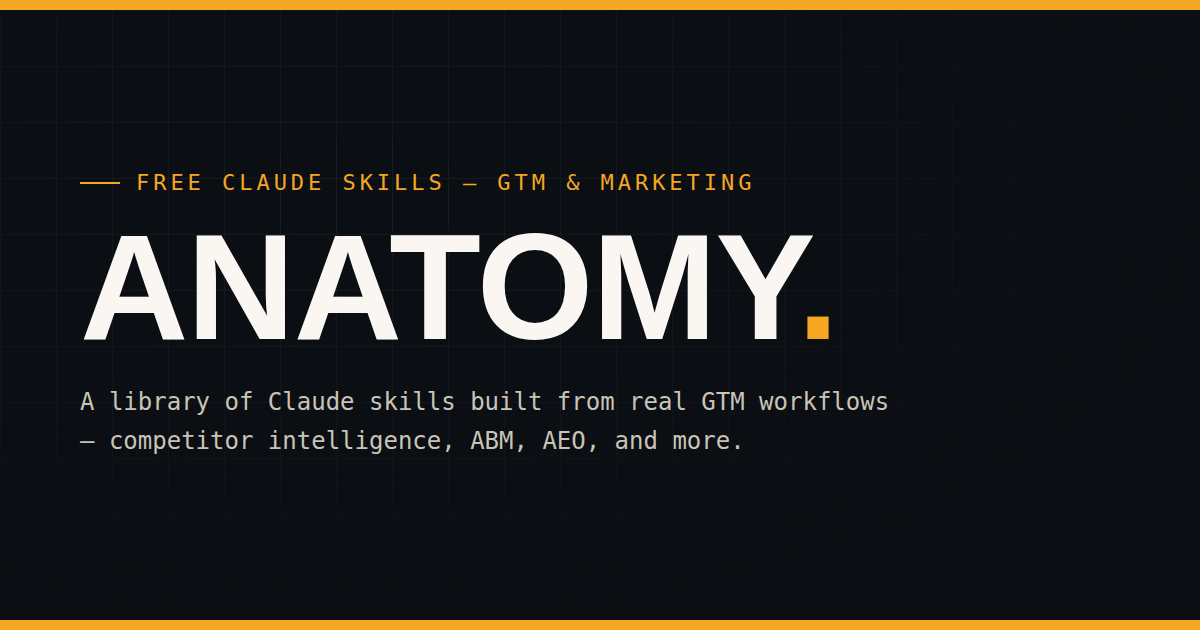
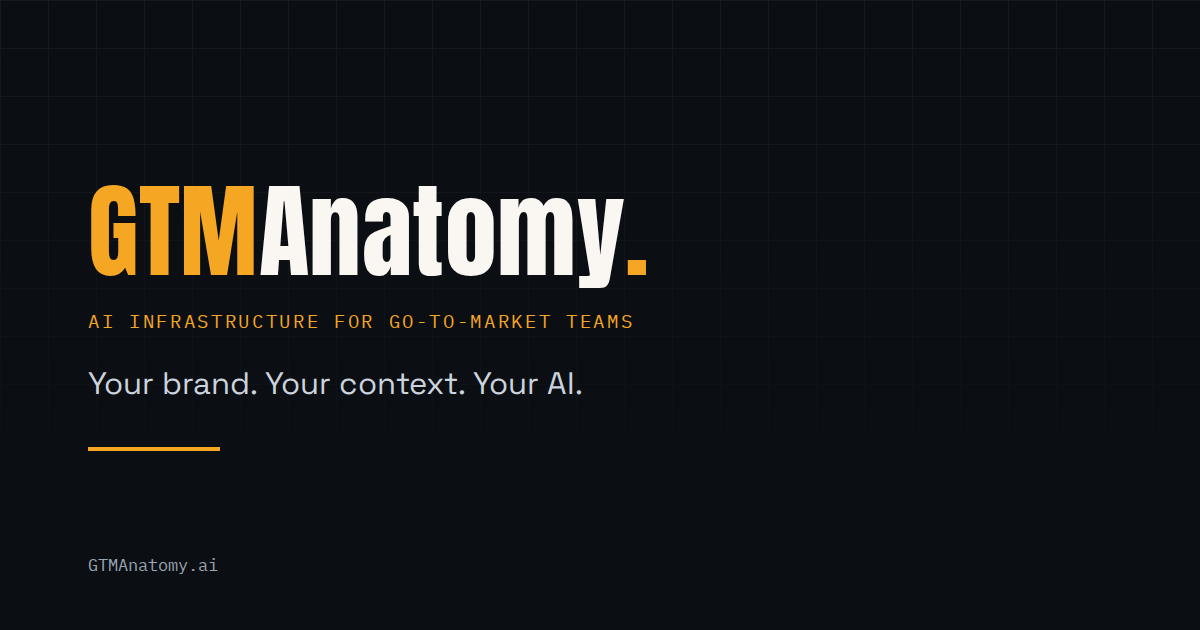
Adopt the GTMAnatomy. wordmark in the nav, footer and share image
The supplied logo is the wordmark set in Anton, which the site already loads,
so it is rebuilt as live text rather than dropped in as a bitmap: crisp at any
size, and it reverses cleanly on the graphite nav where the black logo file
cannot go. "GTM" and the trailing full stop in amber, "Anatomy" in paper.

The lockup is the only place the name is written closed up. In prose the company
stays "GTM Anatomy", two words, per the brand guide.

Also regenerates assets/og-image.png from the same lockup, replacing the old
"Anatomy, free Claude skills" card that had been wrong since the restructure.
Note for whoever regenerates it next: the fonts must be embedded as base64 data
URIs, because a Google Fonts link in headless Chromium falls back silently and
the wordmark renders in the wrong face.

Claude-Session: https://claude.ai/code/session_01VtznqqCexywErVyi7b5Jgd

diff --git a/assets/styles.css b/assets/styles.css
@@ -212,9 +212,16 @@ footer a{ color:var(--amber-deep); text-decoration:underline; }
 /* nav overrides */
 .global-nav-inner{ flex-wrap:wrap; }
 .gn-links{ overflow:visible; flex-wrap:wrap; align-items:center; }
-.gn-brand{ font-family:var(--disp); font-size:17px; text-transform:uppercase; letter-spacing:.02em; color:var(--paper);
-  text-decoration:none; margin-right:6px; white-space:nowrap; transition:color .15s ease; }
-.gn-brand:hover{ color:var(--amber); }
+/* wordmark lockup: GTMAnatomy. — amber GTM, ink Anatomy, amber full stop.
+   Live Anton text rather than an image, so it stays crisp and reverses cleanly
+   on the graphite ground where the black logo file cannot be used. */
+.wm{ font-family:var(--disp); text-transform:none; letter-spacing:.005em; white-space:nowrap; display:inline-block; }
+.wm-a{ color:var(--amber); }
+.wm-b{ color:var(--paper); }
+.gn-brand{ font-size:19px; text-decoration:none; margin-right:6px; white-space:nowrap; display:inline-flex; }
+.gn-brand .wm-b{ transition:color .15s ease; }
+.gn-brand:hover .wm-b{ color:var(--amber); }
+.gn-brand:focus-visible{ outline:2px solid var(--amber); outline-offset:3px; }
 .gn-group{ position:relative; display:inline-flex; }
 .gn-drop{ display:none; position:absolute; top:100%; left:0; margin-top:6px; min-width:180px; z-index:30;
   background:var(--graphite-mid); border:1px solid var(--graphite-line); border-radius:2px; padding:6px 0; }
@@ -385,7 +392,8 @@ footer a{ color:var(--amber-deep); text-decoration:underline; }
 .footer-grid{ display:grid; grid-template-columns:1.4fr 1fr 1fr 1fr; gap:36px; }
 @media (max-width:760px){ .footer-grid{ grid-template-columns:1fr 1fr; } }
 @media (max-width:480px){ .footer-grid{ grid-template-columns:1fr; } }
-.footer-brand{ font-family:var(--disp); font-size:22px; text-transform:uppercase; color:var(--paper); text-decoration:none; display:block; }
+.footer-brand{ font-size:26px; text-decoration:none; display:block; }
+.footer-brand:focus-visible{ outline:2px solid var(--amber); outline-offset:3px; }
 .footer-descriptor{ font-family:var(--mono); font-size:10.5px; text-transform:uppercase; letter-spacing:.1em; color:var(--amber); margin-top:8px; }
 .footer-tag{ font-size:14px; color:#C9C4B8; margin-top:14px; line-height:1.6; }
 .footer-domain{ font-family:var(--mono); font-size:12px; color:var(--amber); margin-top:16px; text-decoration:none; display:inline-block; }

diff --git a/offerings/anatomy-os.html b/offerings/anatomy-os.html
@@ -46,7 +46,7 @@
 
 <nav class="global-nav">
   <div class="global-nav-inner">
-    <a class="gn-brand" href="/">GTM Anatomy</a>
+    <a class="gn-brand" href="/" aria-label="GTM Anatomy, home"><span class="wm"><span class="wm-a">GTM</span><span class="wm-b">Anatomy</span><span class="wm-a">.</span></span></a>
     <div class="gn-links">
       <a href="/" data-page="home">Home</a>
       <a href="/about.html" data-page="about">About</a>
@@ -187,7 +187,7 @@ Named client outcome, adoption figure, or ROI from a completed GTM Operating Sys
   <div class="footer-inner">
     <div class="footer-grid">
       <div>
-        <a class="footer-brand" href="/">GTM Anatomy</a>
+        <a class="footer-brand" href="/" aria-label="GTM Anatomy, home"><span class="wm"><span class="wm-a">GTM</span><span class="wm-b">Anatomy</span><span class="wm-a">.</span></span></a>
         <div class="footer-descriptor">AI Infrastructure for Go-to-Market Teams</div>
         <p class="footer-tag">Your brand. Your context. Your AI.</p>
         <a class="footer-domain" href="/">GTMAnatomy.ai</a>

diff --git a/offerings/ai-sprint.html b/offerings/ai-sprint.html
@@ -46,7 +46,7 @@
 
 <nav class="global-nav">
   <div class="global-nav-inner">
-    <a class="gn-brand" href="/">GTM Anatomy</a>
+    <a class="gn-brand" href="/" aria-label="GTM Anatomy, home"><span class="wm"><span class="wm-a">GTM</span><span class="wm-b">Anatomy</span><span class="wm-a">.</span></span></a>
     <div class="gn-links">
       <a href="/" data-page="home">Home</a>
       <a href="/about.html" data-page="about">About</a>
@@ -182,7 +182,7 @@ Named client outcome from a completed AI Sprint.</div>
   <div class="footer-inner">
     <div class="footer-grid">
       <div>
-        <a class="footer-brand" href="/">GTM Anatomy</a>
+        <a class="footer-brand" href="/" aria-label="GTM Anatomy, home"><span class="wm"><span class="wm-a">GTM</span><span class="wm-b">Anatomy</span><span class="wm-a">.</span></span></a>
         <div class="footer-descriptor">AI Infrastructure for Go-to-Market Teams</div>
         <p class="footer-tag">Your brand. Your context. Your AI.</p>
         <a class="footer-domain" href="/">GTMAnatomy.ai</a>

diff --git a/offerings/fractional-partner.html b/offerings/fractional-partner.html
@@ -46,7 +46,7 @@
 
 <nav class="global-nav">
   <div class="global-nav-inner">
-    <a class="gn-brand" href="/">GTM Anatomy</a>
+    <a class="gn-brand" href="/" aria-label="GTM Anatomy, home"><span class="wm"><span class="wm-a">GTM</span><span class="wm-b">Anatomy</span><span class="wm-a">.</span></span></a>
     <div class="gn-links">
       <a href="/" data-page="home">Home</a>
       <a href="/about.html" data-page="about">About</a>
@@ -193,7 +193,7 @@ Retained client outcome, tenure, or ROI figure.</div>
   <div class="footer-inner">
     <div class="footer-grid">
       <div>
-        <a class="footer-brand" href="/">GTM Anatomy</a>
+        <a class="footer-brand" href="/" aria-label="GTM Anatomy, home"><span class="wm"><span class="wm-a">GTM</span><span class="wm-b">Anatomy</span><span class="wm-a">.</span></span></a>
         <div class="footer-descriptor">AI Infrastructure for Go-to-Market Teams</div>
         <p class="footer-tag">Your brand. Your context. Your AI.</p>
         <a class="footer-domain" href="/">GTMAnatomy.ai</a>

diff --git a/offerings/anatomy-scan.html b/offerings/anatomy-scan.html
@@ -46,7 +46,7 @@
 
 <nav class="global-nav">
   <div class="global-nav-inner">
-    <a class="gn-brand" href="/">GTM Anatomy</a>
+    <a class="gn-brand" href="/" aria-label="GTM Anatomy, home"><span class="wm"><span class="wm-a">GTM</span><span class="wm-b">Anatomy</span><span class="wm-a">.</span></span></a>
     <div class="gn-links">
       <a href="/" data-page="home">Home</a>
       <a href="/about.html" data-page="about">About</a>
@@ -187,7 +187,7 @@ Also pending: a redacted sample Scan document.</div>
   <div class="footer-inner">
     <div class="footer-grid">
       <div>
-        <a class="footer-brand" href="/">GTM Anatomy</a>
+        <a class="footer-brand" href="/" aria-label="GTM Anatomy, home"><span class="wm"><span class="wm-a">GTM</span><span class="wm-b">Anatomy</span><span class="wm-a">.</span></span></a>
         <div class="footer-descriptor">AI Infrastructure for Go-to-Market Teams</div>
         <p class="footer-tag">Your brand. Your context. Your AI.</p>
         <a class="footer-domain" href="/">GTMAnatomy.ai</a>

diff --git a/about.html b/about.html
@@ -37,7 +37,7 @@
 
 <nav class="global-nav">
   <div class="global-nav-inner">
-    <a class="gn-brand" href="/">GTM Anatomy</a>
+    <a class="gn-brand" href="/" aria-label="GTM Anatomy, home"><span class="wm"><span class="wm-a">GTM</span><span class="wm-b">Anatomy</span><span class="wm-a">.</span></span></a>
     <div class="gn-links">
       <a href="/" data-page="home">Home</a>
       <a href="/about.html" data-page="about">About</a>
@@ -197,7 +197,7 @@
   <div class="footer-inner">
     <div class="footer-grid">
       <div>
-        <a class="footer-brand" href="/">GTM Anatomy</a>
+        <a class="footer-brand" href="/" aria-label="GTM Anatomy, home"><span class="wm"><span class="wm-a">GTM</span><span class="wm-b">Anatomy</span><span class="wm-a">.</span></span></a>
         <div class="footer-descriptor">AI Infrastructure for Go-to-Market Teams</div>
         <p class="footer-tag">Your brand. Your context. Your AI.</p>
         <a class="footer-domain" href="/">GTMAnatomy.ai</a>

diff --git a/contact.html b/contact.html
@@ -37,7 +37,7 @@
 
 <nav class="global-nav">
   <div class="global-nav-inner">
-    <a class="gn-brand" href="/">GTM Anatomy</a>
+    <a class="gn-brand" href="/" aria-label="GTM Anatomy, home"><span class="wm"><span class="wm-a">GTM</span><span class="wm-b">Anatomy</span><span class="wm-a">.</span></span></a>
     <div class="gn-links">
       <a href="/" data-page="home">Home</a>
       <a href="/about.html" data-page="about">About</a>
@@ -181,7 +181,7 @@
   <div class="footer-inner">
     <div class="footer-grid">
       <div>
-        <a class="footer-brand" href="/">GTM Anatomy</a>
+        <a class="footer-brand" href="/" aria-label="GTM Anatomy, home"><span class="wm"><span class="wm-a">GTM</span><span class="wm-b">Anatomy</span><span class="wm-a">.</span></span></a>
         <div class="footer-descriptor">AI Infrastructure for Go-to-Market Teams</div>
         <p class="footer-tag">Your brand. Your context. Your AI.</p>
         <a class="footer-domain" href="/">GTMAnatomy.ai</a>

diff --git a/getting-started.html b/getting-started.html
@@ -37,7 +37,7 @@
 
 <nav class="global-nav">
   <div class="global-nav-inner">
-    <a class="gn-brand" href="/">GTM Anatomy</a>
+    <a class="gn-brand" href="/" aria-label="GTM Anatomy, home"><span class="wm"><span class="wm-a">GTM</span><span class="wm-b">Anatomy</span><span class="wm-a">.</span></span></a>
     <div class="gn-links">
       <a href="/" data-page="home">Home</a>
       <a href="/about.html" data-page="about">About</a>
@@ -123,7 +123,7 @@
   <div class="footer-inner">
     <div class="footer-grid">
       <div>
-        <a class="footer-brand" href="/">GTM Anatomy</a>
+        <a class="footer-brand" href="/" aria-label="GTM Anatomy, home"><span class="wm"><span class="wm-a">GTM</span><span class="wm-b">Anatomy</span><span class="wm-a">.</span></span></a>
         <div class="footer-descriptor">AI Infrastructure for Go-to-Market Teams</div>
         <p class="footer-tag">Your brand. Your context. Your AI.</p>
         <a class="footer-domain" href="/">GTMAnatomy.ai</a>

diff --git a/index.html b/index.html
@@ -49,7 +49,7 @@
 
 <nav class="global-nav">
   <div class="global-nav-inner">
-    <a class="gn-brand" href="/">GTM Anatomy</a>
+    <a class="gn-brand" href="/" aria-label="GTM Anatomy, home"><span class="wm"><span class="wm-a">GTM</span><span class="wm-b">Anatomy</span><span class="wm-a">.</span></span></a>
     <div class="gn-links">
       <a href="/" data-page="home">Home</a>
       <a href="/about.html" data-page="about">About</a>
@@ -271,7 +271,7 @@
   <div class="footer-inner">
     <div class="footer-grid">
       <div>
-        <a class="footer-brand" href="/">GTM Anatomy</a>
+        <a class="footer-brand" href="/" aria-label="GTM Anatomy, home"><span class="wm"><span class="wm-a">GTM</span><span class="wm-b">Anatomy</span><span class="wm-a">.</span></span></a>
         <div class="footer-descriptor">AI Infrastructure for Go-to-Market Teams</div>
         <p class="footer-tag">Your brand. Your context. Your AI.</p>
         <a class="footer-domain" href="/">GTMAnatomy.ai</a>

diff --git a/offerings/index.html b/offerings/index.html
@@ -37,7 +37,7 @@
 
 <nav class="global-nav">
   <div class="global-nav-inner">
-    <a class="gn-brand" href="/">GTM Anatomy</a>
+    <a class="gn-brand" href="/" aria-label="GTM Anatomy, home"><span class="wm"><span class="wm-a">GTM</span><span class="wm-b">Anatomy</span><span class="wm-a">.</span></span></a>
     <div class="gn-links">
       <a href="/" data-page="home">Home</a>
       <a href="/about.html" data-page="about">About</a>
@@ -181,7 +181,7 @@
   <div class="footer-inner">
     <div class="footer-grid">
       <div>
-        <a class="footer-brand" href="/">GTM Anatomy</a>
+        <a class="footer-brand" href="/" aria-label="GTM Anatomy, home"><span class="wm"><span class="wm-a">GTM</span><span class="wm-b">Anatomy</span><span class="wm-a">.</span></span></a>
         <div class="footer-descriptor">AI Infrastructure for Go-to-Market Teams</div>
         <p class="footer-tag">Your brand. Your context. Your AI.</p>
         <a class="footer-domain" href="/">GTMAnatomy.ai</a>

diff --git a/go-to-market.html b/go-to-market.html
@@ -37,7 +37,7 @@
 
 <nav class="global-nav">
   <div class="global-nav-inner">
-    <a class="gn-brand" href="/">GTM Anatomy</a>
+    <a class="gn-brand" href="/" aria-label="GTM Anatomy, home"><span class="wm"><span class="wm-a">GTM</span><span class="wm-b">Anatomy</span><span class="wm-a">.</span></span></a>
     <div class="gn-links">
       <a href="/" data-page="home">Home</a>
       <a href="/about.html" data-page="about">About</a>
@@ -97,7 +97,7 @@
   <div class="footer-inner">
     <div class="footer-grid">
       <div>
-        <a class="footer-brand" href="/">GTM Anatomy</a>
+        <a class="footer-brand" href="/" aria-label="GTM Anatomy, home"><span class="wm"><span class="wm-a">GTM</span><span class="wm-b">Anatomy</span><span class="wm-a">.</span></span></a>
         <div class="footer-descriptor">AI Infrastructure for Go-to-Market Teams</div>
         <p class="footer-tag">Your brand. Your context. Your AI.</p>
         <a class="footer-domain" href="/">GTMAnatomy.ai</a>

diff --git a/marketing.html b/marketing.html
@@ -37,7 +37,7 @@
 
 <nav class="global-nav">
   <div class="global-nav-inner">
-    <a class="gn-brand" href="/">GTM Anatomy</a>
+    <a class="gn-brand" href="/" aria-label="GTM Anatomy, home"><span class="wm"><span class="wm-a">GTM</span><span class="wm-b">Anatomy</span><span class="wm-a">.</span></span></a>
     <div class="gn-links">
       <a href="/" data-page="home">Home</a>
       <a href="/about.html" data-page="about">About</a>
@@ -97,7 +97,7 @@
   <div class="footer-inner">
     <div class="footer-grid">
       <div>
-        <a class="footer-brand" href="/">GTM Anatomy</a>
+        <a class="footer-brand" href="/" aria-label="GTM Anatomy, home"><span class="wm"><span class="wm-a">GTM</span><span class="wm-b">Anatomy</span><span class="wm-a">.</span></span></a>
         <div class="footer-descriptor">AI Infrastructure for Go-to-Market Teams</div>
         <p class="footer-tag">Your brand. Your context. Your AI.</p>
         <a class="footer-domain" href="/">GTMAnatomy.ai</a>
